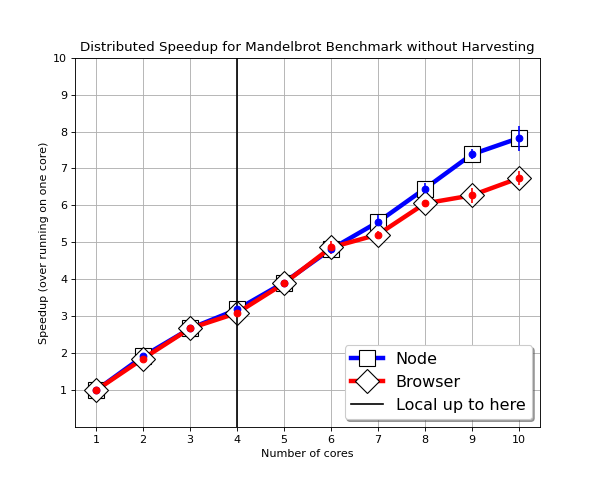
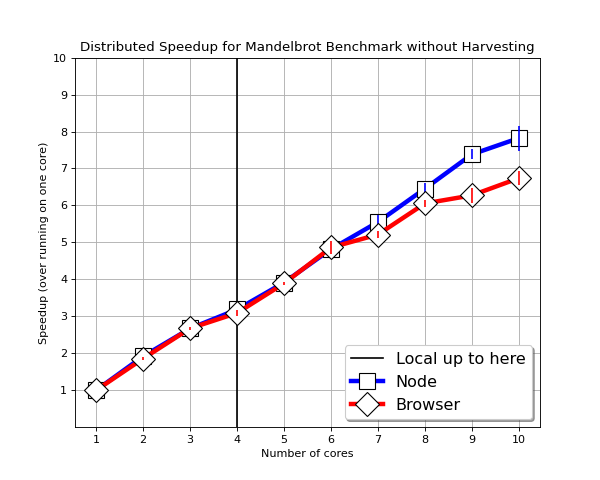
Updated error bars

diff --git a/benchmarks/visualisations/speedupgraph.py b/benchmarks/visualisations/speedupgraph.py
@@ -61,7 +61,7 @@ plt.plot(keys, mandelbrot_noharvest_speedup, '-s', color='blue',
         markeredgecolor='black',
         markeredgewidth=1, label='Mandelbrot no harvest');
 
-plt.errorbar(keys, mandelbrot_noharvest_speedup, yerr = mandelbrot_noharvest_speedup_err,fmt='o',ecolor ='blue',color='blue')
+plt.errorbar(keys, mandelbrot_noharvest_speedup, yerr = mandelbrot_noharvest_speedup_err,fmt='none',ecolor ='blue',color='blue')
 
 plt.plot(keys, mandelbrot_withharvest_speedup, '-P', color='purple',
         markersize=15, linewidth=4,
@@ -69,7 +69,7 @@ plt.plot(keys, mandelbrot_withharvest_speedup, '-P', color='purple',
         markeredgecolor='black',
         markeredgewidth=1, label='Mandelbrot with harvest');
 
-plt.errorbar(keys, mandelbrot_withharvest_speedup, yerr = mandelbrot_withharvest_speedup_err,fmt='o',ecolor ='purple',color='purple')
+plt.errorbar(keys, mandelbrot_withharvest_speedup, yerr = mandelbrot_withharvest_speedup_err,fmt='none',ecolor ='purple',color='purple')
 
 plt.plot(keys, piprecision_speedup, '-D', color='red',
     markersize=15, linewidth=4,
@@ -77,7 +77,7 @@ plt.plot(keys, piprecision_speedup, '-D', color='red',
     markeredgecolor='black',
     markeredgewidth=1, label='Pi Precision');
 
-plt.errorbar(keys, piprecision_speedup, yerr = piprecision_speedup_err,fmt='o',ecolor ='red',color='red')
+plt.errorbar(keys, piprecision_speedup, yerr = piprecision_speedup_err,fmt='none',ecolor ='red',color='red')
 
 plt.plot(keys, trapezoid_speedup, '-8', color='green',
     markersize=15, linewidth=4,
@@ -85,7 +85,7 @@ plt.plot(keys, trapezoid_speedup, '-8', color='green',
     markeredgecolor='black',
     markeredgewidth=1, label='Trapezoid');
 
-plt.errorbar(keys, trapezoid_speedup, yerr = trapezoid_speedup_err, fmt='o',ecolor ='green',color='green')
+plt.errorbar(keys, trapezoid_speedup, yerr = trapezoid_speedup_err, fmt='none',ecolor ='green',color='green')
 
 legend = plt.legend(loc='upper left', shadow=True, fontsize='x-large')
 
@@ -176,7 +176,7 @@ plt.plot(keys, mandelbrot_noharvest_speedup, '-s', color='blue',
         markeredgecolor='black',
         markeredgewidth=1, label='Mandelbrot no harvest');
 
-plt.errorbar(keys, mandelbrot_noharvest_speedup, yerr = mandelbrot_noharvest_speedup_err,fmt='o',ecolor ='blue',color='blue')
+plt.errorbar(keys, mandelbrot_noharvest_speedup, yerr = mandelbrot_noharvest_speedup_err,fmt='none',ecolor ='blue',color='blue')
 
 plt.plot(keys, mandelbrot_withharvest_speedup, '-P', color='purple',
         markersize=15, linewidth=4,
@@ -184,7 +184,7 @@ plt.plot(keys, mandelbrot_withharvest_speedup, '-P', color='purple',
         markeredgecolor='black',
         markeredgewidth=1, label='Mandelbrot with harvest');
 
-plt.errorbar(keys, mandelbrot_withharvest_speedup, yerr = mandelbrot_withharvest_speedup_err,fmt='o',ecolor ='purple',color='purple')
+plt.errorbar(keys, mandelbrot_withharvest_speedup, yerr = mandelbrot_withharvest_speedup_err,fmt='none',ecolor ='purple',color='purple')
 
 plt.plot(keys, piprecision_speedup, '-D', color='red',
     markersize=15, linewidth=4,
@@ -192,7 +192,7 @@ plt.plot(keys, piprecision_speedup, '-D', color='red',
     markeredgecolor='black',
     markeredgewidth=1, label='Pi Precision');
 
-plt.errorbar(keys, piprecision_speedup, yerr = piprecision_speedup_err,fmt='o',ecolor ='red',color='red')
+plt.errorbar(keys, piprecision_speedup, yerr = piprecision_speedup_err,fmt='none',ecolor ='red',color='red')
 
 plt.plot(keys, trapezoid_speedup, '-8', color='green',
     markersize=15, linewidth=4,
@@ -200,7 +200,7 @@ plt.plot(keys, trapezoid_speedup, '-8', color='green',
     markeredgecolor='black',
     markeredgewidth=1, label='Trapezoid');
 
-plt.errorbar(keys, trapezoid_speedup, yerr = trapezoid_speedup_err, fmt='o',ecolor ='green',color='green')
+plt.errorbar(keys, trapezoid_speedup, yerr = trapezoid_speedup_err, fmt='none',ecolor ='green',color='green')
 
 legend = plt.legend(loc='upper left', shadow=True, fontsize='x-large')
 
@@ -253,6 +253,7 @@ mandelbrot_node_speedup_err = [sem(el) for el in mandelbrot_node_speedup_data]
 mandelbrot_browser_speedup_err = [sem(el) for el in mandelbrot_browser_speedup_data]
 
 figure(figsize=(7.5, 6), dpi=80)
+plt.axvline(x=4, ymin=0, ymax=10, color='black', label='Local up to here')
 
 plt.plot(keys, mandelbrot_node_speedup, '-s', color='blue',
         markersize=15, linewidth=4,
@@ -260,7 +261,7 @@ plt.plot(keys, mandelbrot_node_speedup, '-s', color='blue',
         markeredgecolor='black',
         markeredgewidth=1, label='Node');
 
-plt.errorbar(keys, mandelbrot_node_speedup, yerr = mandelbrot_node_speedup_err,fmt='o',ecolor ='blue',color='blue')
+plt.errorbar(keys, mandelbrot_node_speedup, yerr = mandelbrot_node_speedup_err,fmt='none',ecolor ='blue',color='blue')
 
 plt.plot(keys, mandelbrot_browser_speedup, '-D', color='red',
     markersize=15, linewidth=4,
@@ -268,9 +269,8 @@ plt.plot(keys, mandelbrot_browser_speedup, '-D', color='red',
     markeredgecolor='black',
     markeredgewidth=1, label='Browser');
 
-plt.errorbar(keys, mandelbrot_browser_speedup, yerr = mandelbrot_browser_speedup_err,fmt='o',ecolor ='red',color='red')
+plt.errorbar(keys, mandelbrot_browser_speedup, yerr = mandelbrot_browser_speedup_err,fmt='none',ecolor ='red',color='red')
 
-plt.axvline(x=4, ymin=0, ymax=10, color='black', label='Local up to here')
 legend = plt.legend(loc='lower right', shadow=True, fontsize='x-large')
 plt.locator_params(axis="x", integer=True, tight=True)
 plt.title('Distributed Speedup for Mandelbrot Benchmark without Harvesting')
